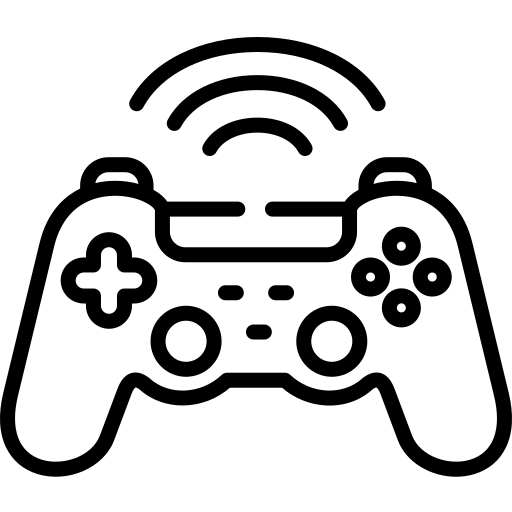
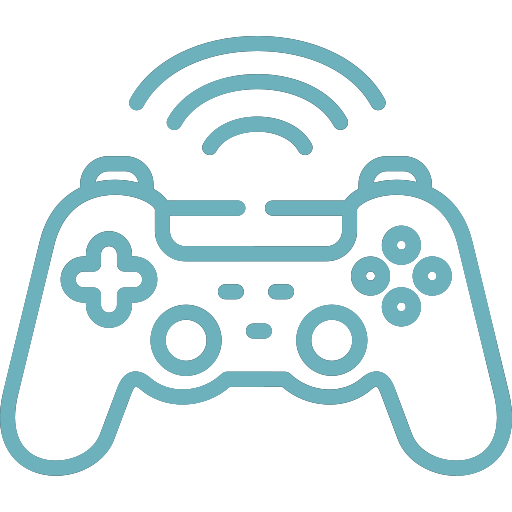
Terminada la página inicial

diff --git a/index.html b/index.html
@@ -30,59 +30,25 @@
 					<div class="container">
 
 						<header>
-							<h2 class="alt">¡Hola Mundo! Soy <strong>Alejandro Villar</strong> un futuro<br />
-							Desarrollador de Videojuegos.</h2>
-							<p>En esta página web te voy a mostrar mis habilidades y lo que he<br />
-							estado haciendo estos últimos años.</p>
+							<h1 style="font-family: 'Anton', sans-serif; font-size: 100px; color: #66FCF1; text-transform: uppercase;">¡Hola Mundo!</h1>
+						<h2 class="alt" style="font-size: 40px;">Soy <strong style="color: #45A29E">Alejandro Villar</strong>, un futuro<br />
+							<strong style="color: #45A29E">Desarrollador de Videojuegos</strong>  y te quiero mostrar mis habilidades y lo que he<br />
+							estado haciendo estos últimos años.</h2>
 						</header>
 
 						<footer>
-							<a href="#portfolio" class="button scrolly">Magna Aliquam</a>
+							<a href="#portfolio" id="portfolio-link" class="button scrolly" style="background-color: transparent; border: solid #66FCF1; border-radius: 0px; text-transform: uppercase;">Ver Portfolio</a>
 						</footer>
 
 					</div>
 				</section>
 
-			<!-- Portfolio -->
-				<section id="portfolio" class="two">
-					<div class="container">
-
-						<header>
-							<h2>Portfolio</h2>
-						</header>
-
-						<p>Aquí están los proyectos que he estado realizando estos últimos años.</p>
-
-						<div class="row">
-							<div class="col-4 col-12-mobile">
-								<a href="pc_games/pc_games.html" class="image fit"><img src="images/laptop.png" alt="" /></a>
-								<header>
-									<h3>Juegos para PC</h3>
-								</header>
-							</div>
-							<div class="col-4 col-12-mobile">
-								<a href="mobile_games/mobile_games.html" class="image fit"><img src="images/phone.png" alt="" /></a>
-								<header>
-									<h3>Juegos para Smartphone</h3>
-								</header>
-							</div>
-							<div class="col-4 col-12-mobile">
-								<a href="console_games/console_games.html" class="image fit"><img src="images/game-controller.png" alt="" /></a>
-								<header>
-									<h3>Juegos para Consolas</h3>
-								</header>
-							</div>
-						</div>
-
-					</div>
-				</section>
-
 			<!-- About Me -->
-				<section id="about" class="three">
-					<div class="container">
+				<section id="about" class="two">
+					<div class="container" style="color: #1f2833;">
 
 						<header>
-							<h2>Un poco sobre mí</h2>
+							<h2 style="color: #0b0c10; text-transform: uppercase;">Un poco sobre mí</h2>
 						</header>
 
 						<!--<a href="#" class="image featured"><img src="images/pic08.jpg" alt="" /></a>-->
@@ -101,11 +67,11 @@
 							llamados videojuegos y en Game Analytics.
 						</p>
 
-						<table style="width:100%">
-							<tr>
-								<th>Lenguajes</th>
-								<th>Programas y Otros</th>
-								<th>Idiomas</th>
+						<table style="width:100%; border: solid #0b0c10;">
+							<tr style="border: solid #0b0c10;">
+								<th style="background: #1f2833;">Lenguajes</th>
+								<th style="background: #1f2833;">Programas y Otros</th>
+								<th style="background: #1f2833;">Idiomas</th>
 							</tr>
 							<tr>
 								<td>C++</td>
@@ -142,28 +108,61 @@
 					</div>
 				</section>
 
-			<!-- Contact -->
-				<section id="contact" class="four">
-					<div class="container">
+				<!-- Portfolio -->
+				<section id="portfolio" class="three">
+					<div class="container" style="color: #c5c6c7">
 
 						<header>
-							<h2>Contacto</h2>
+							<h2 style="color: #c5c6c7; text-transform: uppercase;">Portfolio</h2>
 						</header>
 
-						<p>Puedes ponerte en contracto conmigo para lo que necesites.</p>
+						<p>Aquí están los proyectos que he estado realizando estos últimos años.</p>
 
-						<form method="post" action="#">
-							<div class="row">
-								<div class="col-6 col-12-mobile"><input type="text" name="name" placeholder="Name" /></div>
-								<div class="col-6 col-12-mobile"><input type="text" name="email" placeholder="Email" /></div>
-								<div class="col-12">
-									<textarea name="message" placeholder="Message"></textarea>
-								</div>
-								<div class="col-12">
-									<input type="submit" value="Send Message" />
-								</div>
+						<div class="row">
+							<div class="col-4 col-12-mobile">
+								<a href="pc_games/pc_games.html" class="image fit"><img src="images/laptop.png" alt="" /></a>
+								<header>
+									<h3 style="color: #c5c6c7">PC</h3>
+								</header>
 							</div>
-						</form>
+							<div class="col-4 col-12-mobile">
+								<a href="mobile_games/mobile_games.html" class="image fit"><img src="images/phone.png" alt="" /></a>
+								<header>
+									<h3 style="color: #c5c6c7">Smartphone</h3>
+								</header>
+							</div>
+							<div class="col-4 col-12-mobile">
+								<a href="console_games/console_games.html" class="image fit"><img src="images/game-controller.png" alt="" /></a>
+								<header>
+									<h3 style="color: #c5c6c7">Consolas</h3>
+								</header>
+							</div>
+						</div>
+
+					</div>
+				</section>
+
+			<!-- Contact -->
+				<section id="contact" class="four">
+					<div class="container" style="color: #1f2833;">
+
+						<header>
+							<h2 style="color: #0b0c10; text-transform: uppercase;">Contacto</h2>
+						</header>
+
+						<p>Puedes ponerte en contacto conmigo para lo que necesites.</p>
+						
+						<ul style="font-size: 12px; list-style: none;">
+							<li style="margin: 10px;">
+								<h2 style="color: #0b0c10"><i class="fas fa-phone-square-alt" style="margin-right: 20px;"></i>+34 675 37 62 88</h2>
+							</li>
+							<li style="margin: 10px;">
+								<h2 style="color: #0b0c10"><i class="fas fa-envelope" style="margin-right: 20px;"></i>alvillru@gmail.com</h2>
+							</li>
+							<li style="margin: 10px;">
+								<h2 style="color: #0b0c10"><i class="fas fa-map-marked-alt" style="margin-right: 20px;"></i>C/Jesús Goldero 9 2ºD, 28045 Madrid</h2>
+							</li>
+						</ul>
 
 					</div>
 				</section>

diff --git a/assets/css/main.css b/assets/css/main.css
@@ -175,7 +175,7 @@ input, select, textarea {
 	}
 
 		a:hover {
-			color: #E27689;
+			color: #66fcf1;
 			border-bottom-color: rgba(255, 255, 255, 0);
 		}
 
@@ -2045,7 +2045,7 @@ input, select, textarea {
 		-webkit-justify-content: space-between;
 		-ms-justify-content: space-between;
 		justify-content: space-between;
-		background: #222629 url("images/overlay.png");
+		background: #0b0c10 url("images/overlay.png");
 		box-shadow: inset -0.25em 0 0.25em 0 rgba(0, 0, 0, 0.1);
 		color: #fff;
 		height: 100%;
@@ -2162,13 +2162,13 @@ input, select, textarea {
 					}
 
 				#nav ul li a.active {
-					background: rgba(0, 0, 0, 0.15);
+					background: #1f2833;
 					box-shadow: inset 0 0 0.25em 0 rgba(0, 0, 0, 0.125);
 					color: #fff;
 				}
 
 					#nav ul li a.active span:before {
-						color: #e27689;
+						color: #66fcf1;
 					}
 
 /* Footer */
@@ -2176,7 +2176,7 @@ input, select, textarea {
 	#footer {
 		margin-left: 375px;
 		text-align: center;
-		background-color: #dce3e2;
+		background-color: #0b0c10;
 		padding: 3em 0 4em 0;
 		box-shadow: inset 0 1px 0 0 rgba(0, 0, 0, 0.05), inset 0 0.1em 0.1em 0 rgba(0, 0, 0, 0.025);
 		font-size: 0.8em;
@@ -2246,22 +2246,28 @@ input, select, textarea {
 			}
 
 			#main > section.one {
-				background-color: #81918E;
-				background-image: url("../../images/banner.jpg");
+				background-color: #0b0c10;
 			}
 
 			#main > section.two {
-				background-color: #f5fafa;
+				background-color: #c5c6c7;
 			}
 
 			#main > section.three {
-				background-color: #ecf1f1;
+				background-color: #0b0c10;
 			}
 
 			#main > section.four {
-				background-color: #e8edec;
+				background-color: #c5c6c7;
 			}
 
+	#portfolio .image.fit{
+		transform: scale(0.9);
+		transition: 0.5s;
+	}
+	#portfolio .image.fit:hover{
+		transform: scale(1);
+	}
 /* Wide */
 
 	@media screen and (min-width: 961px) and (max-width: 1880px) {

diff --git a/fragments/header.html b/fragments/header.html
@@ -10,6 +10,7 @@
 		<meta charset="utf-8" />
 		<meta name="viewport" content="width=device-width, initial-scale=1, user-scalable=no" />
 		<link rel="stylesheet" href="../assets/css/main.css" />
+		<link href="https://fonts.googleapis.com/css?family=Anton&display=swap" rel="stylesheet">
 
 			<div class="top">
 
@@ -24,8 +25,8 @@
 					<nav id="nav">
 						<ul>
 							<li><a href="#top" id="top-link"><span class="icon solid fa-home">Intro</span></a></li>
-							<li><a href="#portfolio" id="portfolio-link"><span class="icon solid fa-th">Portfolio</span></a></li>
 							<li><a href="#about" id="about-link"><span class="icon solid fa-user">Sobre mí</span></a></li>
+							<li><a href="#portfolio" id="portfolio-link"><span class="icon solid fa-th">Portfolio</span></a></li>
 							<li><a href="#contact" id="contact-link"><span class="icon solid fa-envelope">Contacto</span></a></li>
 						</ul>
 					</nav>
@@ -37,10 +38,9 @@
 				<!-- Social Icons -->
 					<ul class="icons">
 						<li><a href="#" class="icon brands fa-twitter"><span class="label">Twitter</span></a></li>
-						<li><a href="#" class="icon brands fa-facebook-f"><span class="label">Facebook</span></a></li>
+						<li><a href="#" class="icon brands fa-linkedin"><span class="label">LinkedIn</span></a></li>
 						<li><a href="#" class="icon brands fa-github"><span class="label">Github</span></a></li>
-						<li><a href="#" class="icon brands fa-dribbble"><span class="label">Dribbble</span></a></li>
-						<li><a href="#" class="icon solid fa-envelope"><span class="label">Email</span></a></li>
+						<!-- <li><a href="#" class="icon solid fa-envelope"><span class="label">Email</span></a></li> -->
 					</ul>
 
 			</div>

diff --git a/fragments/second_header.html b/fragments/second_header.html
@@ -24,8 +24,8 @@
 					<nav id="nav">
 						<ul>
 							<li><a href="../index.html#top" id="top-link"><span class="icon solid fa-home">Intro</span></a></li>
-							<li><a href="../index.html#portfolio" id="portfolio-link"><span class="icon solid fa-th">Portfolio</span></a></li>
 							<li><a href="../index.html#about" id="about-link"><span class="icon solid fa-user">Sobre mí</span></a></li>
+							<li><a href="../index.html#portfolio" id="portfolio-link"><span class="icon solid fa-th">Portfolio</span></a></li>
 							<li><a href="../index.html#contact" id="contact-link"><span class="icon solid fa-envelope">Contacto</span></a></li>
 						</ul>
 					</nav>
